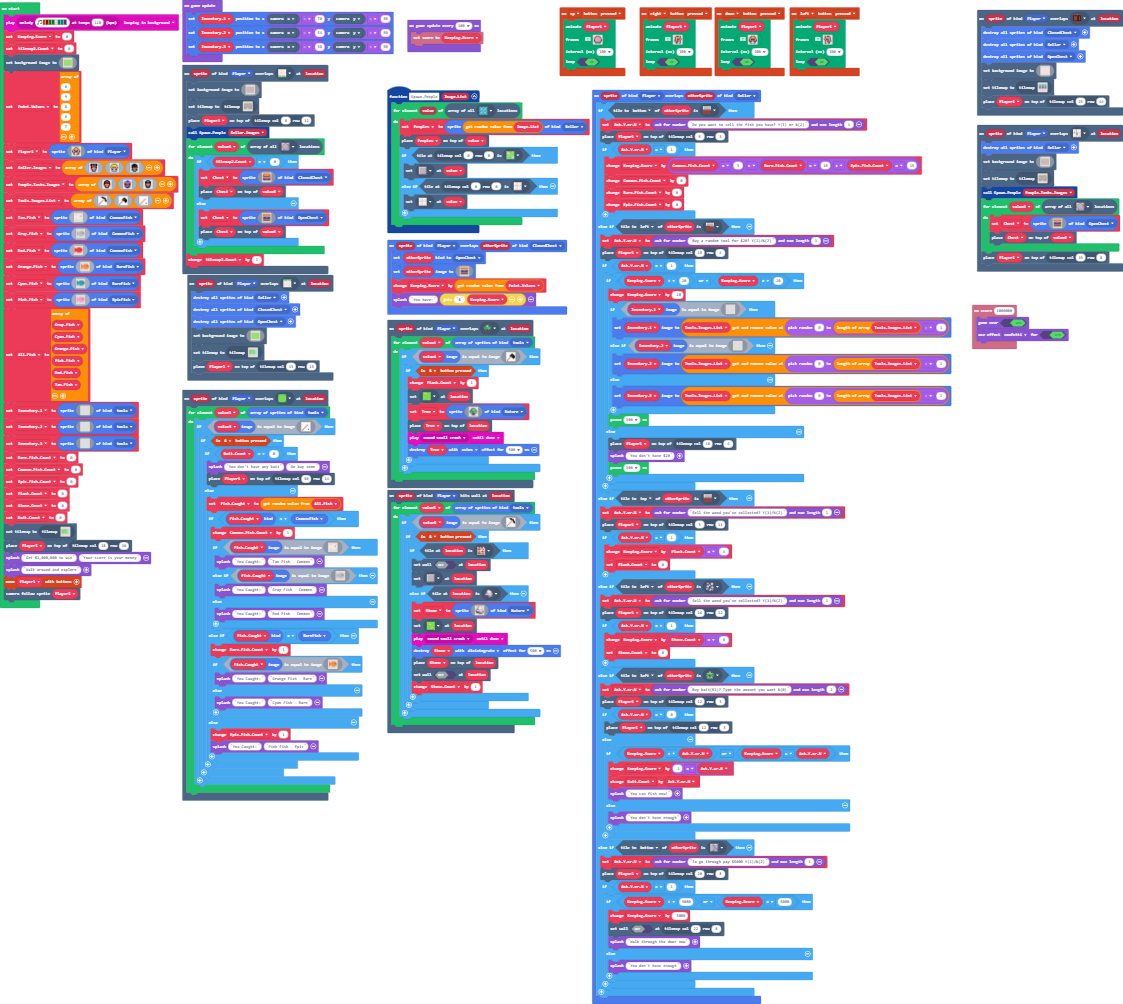
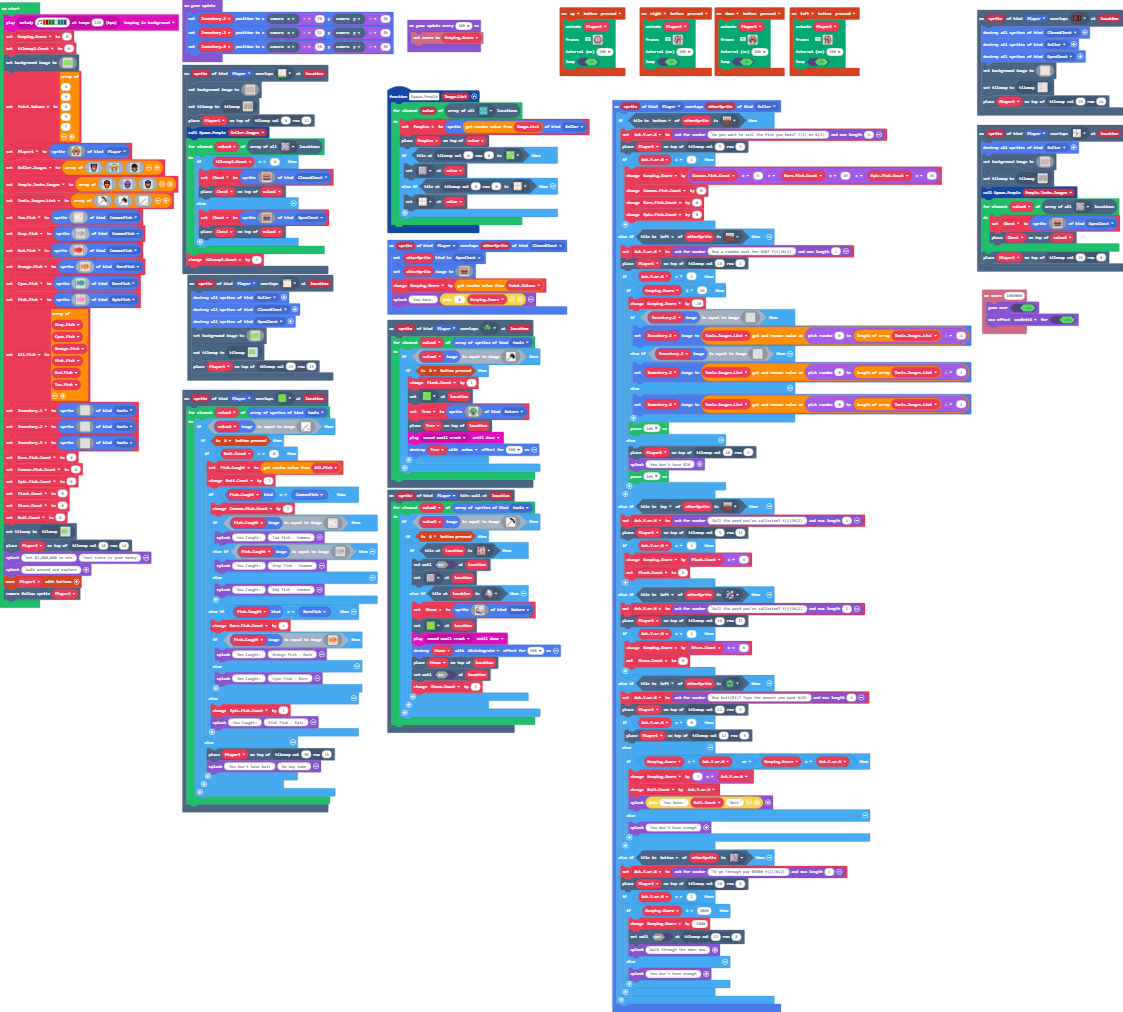
I fixed the bait and shortened two of my if statements

Changed region(s): [[0.0, 0.0309, 1.0, 1.0]]

diff --git a/tilemap.g.ts b/tilemap.g.ts
@@ -283,45 +283,6 @@ namespace myTiles {
 ...2.2..2.22.2.........22........2.2222222222
 2.2..2..2....................2......222222222
 `, [myTiles.transparency16,sprites.castle.tileGrass1,myTiles.tile1,sprites.castle.tileGrass3,sprites.castle.saplingPine,sprites.castle.rock0,sprites.castle.tileGrass2,sprites.builtin.brick,sprites.castle.tilePath5,sprites.castle.tilePath8,myTiles.tile7], TileScale.Sixteen);
-            case "level1":
-            case "level1":return tiles.createTilemap(hex`30002400010101010101010101010101010101010101010101010101010101010101010101010101010101010101010101010101010102020202020202020202020201010101020202020202020202020202010101010202020202020202020202020101010102050705050505050505050201010101020505050505050505050502010101010205050505050505050505020101010102050505050505060705050201010101020505070505050507050502010101010205050507050505050505020101010102050605050505050505050201010101020506050505050505050502010101010206060505060505070506020101010102050505070505050505050201010101020507050605060605050502010101010205070505050505050505020101010102050505050505050505050201010101020505050605050505050502010101010205050505050505050505020101010102050505050505050705050201010101020505050505050607050502010101010205050505070505060505020101010102050505050605050505050201010101020506060505050505050502010101010205060605050505050705020101010102050505050505050505050201010101020505050705050605050502010101010205050606050505050505020101010102050705050505050705050201010101020505050505050605050502010101010205050505050505050505020101010102050506050505060505050201010101020505050505050507050502010101010205050705050505050505020101010102050505050705050505050201010101020506060505050505050502010101010205050505050506070505020101010102050605050505050505050201010101020505050505050505050502010101010205050605050505050505020101010102020202020808020202020201010101020202020208080202020202010101010202020202080802020202020101010102030303030303030303030201010101020303030303030303030302010101010203030303030303030303020101010102030303030303030303030201010101020303030303030303030302010101010203030303030303030303020101010102030303030303030303030201010101020303030303030303030302010101010203030303030303030303020101010102030303030303030303030201010101020303030303030303030302010101010203030303030303030303020101010102030303030303030303030201010101020303030303030303030302010101010203030303030303030303020101010102030303030303030303030201010101020303030303030303030302010101010203030303030303030303020101010102030303030303030303030201010101020303030303030303030302010101010203030303030303030303020101010102030303030303030303030201010101020303030303030303030302010101010203030303030303030303020101010102030303030303030303030201010101020303030303030303030302010101010203030303030303030303020101010102030303030303030303030201010101020303030303030303030302010101010203030303030303030303020101010102030303030303030303030201010101020303030303030303030302010101010203030303030303030303020101010102020202020808020202020201010101020202020208080202020202010101010202020202080802020202020101010101010101040101040101010101010101010101010401010401010101010101010101010104010104010101010101010101010101010101010101010101010101010101010101010101010101010101010101010101010101010101010101010101010101010101010101010101010101010101010101010101010101010101010101010101010101010101010101010101010101010101010101010101010101010101010101010101010101010101010101010101010101010101010101010101010101010101010101010101010101010101010101010101010101010101010101010101010101010101010101010101010101010101010101010101010101010101010101010101010101010101010101010101010101010101010101010101010101010101010101010101010101010101010101010101010101010101010101010101010101010101010101010101010101010101010101010101010101010101010101010101010101010101010101010101010101010101010101010101010101010101010101010101010101010101090909090909090101010101010101010101010101010101010101`, img`
-................................................
-..222222222222....222222222222....222222222222..
-..2..........2....2..........2....2..........2..
-..2..........2....2..........2....2..........2..
-..2..........2....2..........2....2..........2..
-..2..........2....2..........2....2..........2..
-..2..........2....2..........2....2..........2..
-..2..........2....2..........2....2..........2..
-..2..........2....2..........2....2..........2..
-..2..........2....2..........2....2..........2..
-..2..........2....2..........2....2..........2..
-..2..........2....2..........2....2..........2..
-..2..........2....2..........2....2..........2..
-..2..........2....2..........2....2..........2..
-..22222..22222....22222..22222....22222..22222..
-..2..........2....2..........2....2..........2..
-..2..........2....2..........2....2..........2..
-..2..........2....2..........2....2..........2..
-..2..........2....2..........2....2..........2..
-..2..........2....2..........2....2..........2..
-..2..........2....2..........2....2..........2..
-..2..........2....2..........2....2..........2..
-..2..........2....2..........2....2..........2..
-..2..........2....2..........2....2..........2..
-..2..........2....2..........2....2..........2..
-..2..........2....2..........2....2..........2..
-..222222222222....222222222222....222222222222..
-................................................
-................................................
-................................................
-................................................
-................................................
-................................................
-................................................
-................................................
-................................................
-`, [myTiles.transparency16,sprites.dungeon.floorLight0,myTiles.tile18,sprites.dungeon.darkGroundCenter,sprites.dungeon.collectibleInsignia,sprites.castle.tileDarkGrass3,sprites.castle.tileDarkGrass1,sprites.castle.tileDarkGrass2,myTiles.tile19,sprites.dungeon.floorLightMoss], TileScale.Sixteen);
             case "level3":
[1 lines of base64/hex data omitted]
 .......................
@@ -342,6 +303,36 @@ namespace myTiles {
 .2222222.....2222222222
 .......................
 `, [myTiles.transparency16,myTiles.tile2,sprites.dungeon.collectibleInsignia,sprites.castle.tileGrass2,sprites.castle.tilePath2,myTiles.tile5,myTiles.tile8,myTiles.tile9,myTiles.tile10,myTiles.tile11,myTiles.tile12,myTiles.tile3,myTiles.tile13,myTiles.tile14,myTiles.tile15,myTiles.tile16,sprites.dungeon.floorDark2,myTiles.tile17,sprites.castle.rock2,sprites.dungeon.floorDarkDiamond,sprites.castle.tileGrass1,sprites.castle.tilePath5,sprites.castle.shrub,myTiles.tile20,sprites.dungeon.floorDark5], TileScale.Sixteen);
+            case "level1":
[1 lines of base64/hex data omitted]
+.................................
+.................................
+.................................
+.................................
+.................................
+.................................
+.................................
+.................................
+.................................
+.................................
+.................................
+.................................
+.................................
+.................................
+.................................
+.................................
+.................................
+.................................
+.................................
+.................................
+.................................
+.................................
+.................................
+.................................
+.................................
+.................................
+.................................
+`, [myTiles.transparency16,sprites.dungeon.floorLight0,sprites.dungeon.floorLightMoss,sprites.dungeon.floorLight4,sprites.castle.tileGrass2,myTiles.tile18], TileScale.Sixteen);
         }
         return null;
     })

diff --git a/main.ts b/main.ts
@@ -682,7 +682,7 @@ sprites.onOverlap(SpriteKind.Player, SpriteKind.Seller, function (sprite, otherS
         AskYorN = game.askForNumber("Buy a random tool for $20? Y(1)/N(2)", 1)
         tiles.placeOnTile(Player1, tiles.getTileLocation(18, 4))
         if (AskYorN == 1) {
-            if (KeepingScore > 20 || KeepingScore == 20) {
+            if (KeepingScore >= 20) {
                 KeepingScore += -20
                 if (Inventory1.image.equals(img`
                     . . . . . . . . . . . . . . . . 
@@ -755,7 +755,7 @@ sprites.onOverlap(SpriteKind.Player, SpriteKind.Seller, function (sprite, otherS
             if (KeepingScore > AskYorN || KeepingScore == AskYorN) {
                 KeepingScore += -1 * AskYorN
                 BaitCount += AskYorN
-                game.splash("You can fish now!")
+                game.splash("You have:" + BaitCount + "Bait")
             } else {
                 game.splash("You don't have enough")
             }
@@ -764,7 +764,7 @@ sprites.onOverlap(SpriteKind.Player, SpriteKind.Seller, function (sprite, otherS
         AskYorN = game.askForNumber("To go through pay $5000 Y(1)/N(2)", 1)
         tiles.placeOnTile(Player1, tiles.getTileLocation(20, 8))
         if (AskYorN == 1) {
-            if (KeepingScore > 5000 || KeepingScore == 5000) {
+            if (KeepingScore >= 5000) {
                 KeepingScore += -5000
                 tiles.setWallAt(tiles.getTileLocation(22, 8), false)
                 game.splash("Walk through the door now")
@@ -864,11 +864,9 @@ scene.onOverlapTile(SpriteKind.Player, assets.tile`myTile5`, function (sprite, l
             e 1 1 1 1 1 1 1 1 
             `)) {
             if (controller.A.isPressed()) {
-                if (BaitCount == 0) {
-                    game.splash("You don't have any bait", "Go buy some")
-                    tiles.placeOnTile(Player1, tiles.getTileLocation(30, 14))
-                } else {
+                if (BaitCount > 0) {
                     FishCaught = AllFish._pickRandom()
+                    BaitCount += -1
                     if (FishCaught.kind() == SpriteKind.CommonFish) {
                         CommonFishCount += 1
                         if (FishCaught.image.equals(img`
@@ -913,6 +911,9 @@ scene.onOverlapTile(SpriteKind.Player, assets.tile`myTile5`, function (sprite, l
                         EpicFishCount += 1
                         game.splash("You Caught:", "Pink Fish - Epic")
                     }
+                } else {
+                    tiles.placeOnTile(Player1, tiles.getTileLocation(30, 14))
+                    game.splash("You don't have bait", "Go buy some")
                 }
             }
         }
